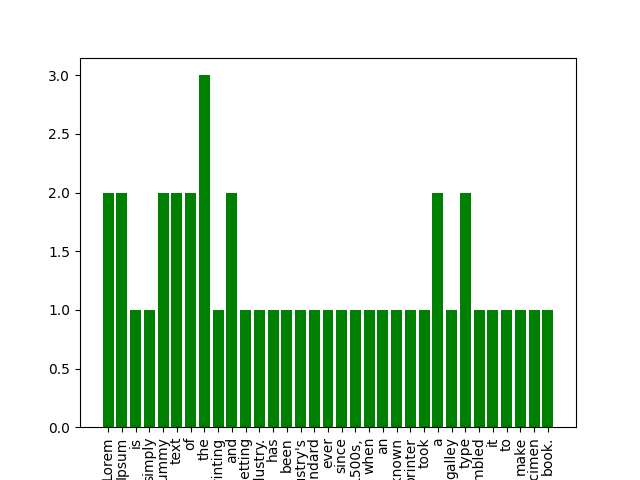
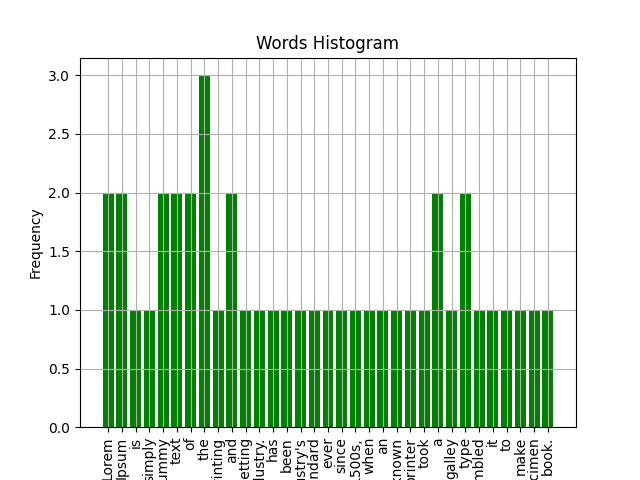
removed errors

diff --git a/main.py b/main.py
@@ -48,7 +48,11 @@ def open_file(arg):
     h4.config(text=maxstr)
     h5.config(text=minstr)
     plt.bar(dic.keys(), dic.values(),color='g')
-    plt.xticks(rotation='vertical')
+    plt.xticks(rotation=90)
+    plt.xlabel("Words")
+    plt.ylabel("Frequency")
+    plt.title("Words Histogram")
+    plt.grid()
     plt.savefig('histo.png',dpi=100)
     img2 =Image.open("histo.png")
     img2=img2.resize((600,300),Image.ANTIALIAS)
